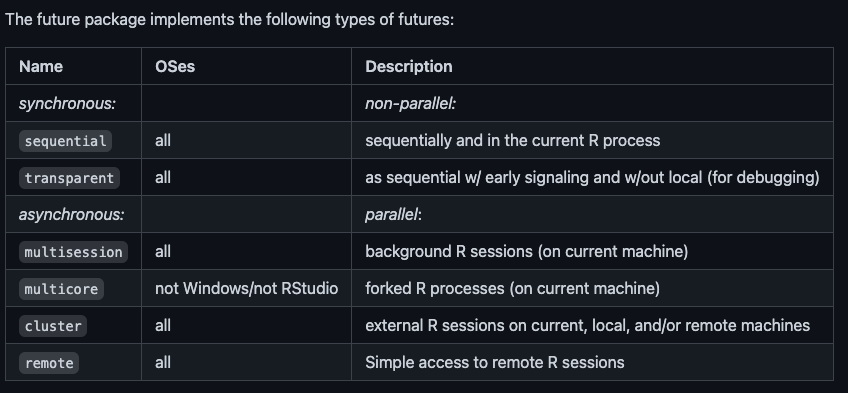
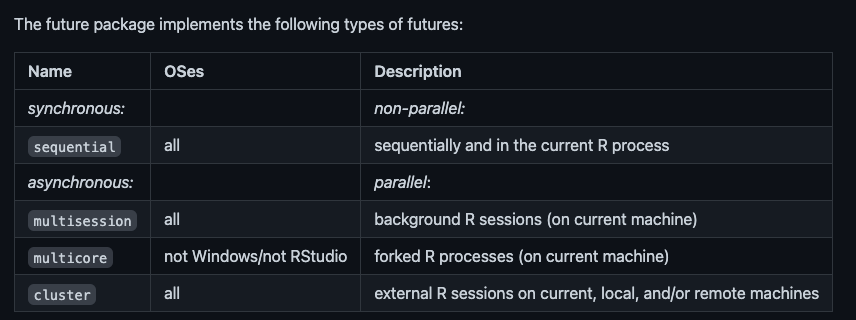
updates to parallelisation materials

diff --git a/topic_parallelisation_Sebastian/presentation/parallelisation_Sebastian.html b/topic_parallelisation_Sebastian/presentation/parallelisation_Sebastian.html
@@ -66,8 +66,9 @@ name: overview
 ???
 Future package has backup packages, for example future.batchtools which provides access to cluster functions, like slurm, torque, SGE and LSF.
 Futures are evaluated in a local environment, meaning that you cant change variables in there. Like in functions.
-Finish with info that he has described this in detail for those that want to know more. Just published article.
-The big thing about futures is that it seems to support most infrastructures and it is written in a way where you are not deciding which infrastructure the user has, which parallel and foreach did.
+
+Recently published article.
+The big thing about futures is that it seems to support most infrastructures and it is written in a way where you are not deciding which infrastructure the user has, which parallel and foreach did. Finish with info that he has described this in detail for those that want to know more. 
 
 ---
 name: par
@@ -109,6 +110,10 @@ Published 2021-06-08 in "The R Journal":
 [A Unifying Framework for Parallel and Distributed Processing in R using Futures](https://journal.r-project.org/archive/2021/RJ-2021-048/RJ-2021-048.pdf)
 
 ???
+R package developers rarely know who the end-users are and what compute resources they have. With future, instead of programming for one architecture, the code should work on most architectures. We will get back to the Unblocked R process during resolving but basically what it means is that even if multiple things are being computed in parallel the R code can continue unblocked until the resolved values are needed.
+
+
+Text from article:
 The state of a future can either be unresolved or resolved. As soon as it is resolved, the value is available instantaneously. If the value is queried while the future is still unresolved, the current process is blocked until the future is resolved.
 
 R package developers rarely know who the end-users are and what compute resources they have. Regardless, developers who wish to support parallel processing still face the problem of deciding which parallel framework to target, a decision which often has to be done early in the development cycle. This means deciding on what type of parallelism to support,
@@ -120,12 +125,6 @@ This decision is critical because it limits the end-user’s options and any cha
 Building block:
 `variable %&lt;-% {expression(s)}`
 
-???
-The state of a future can either be unresolved or resolved. As soon as it is resolved, the value is available instantaneously. If the value is queried while the future is still unresolved, the current process is blocked until the future is resolved.
-
-R package developers rarely know who the end-users are and what compute resources they have. Regardless, developers who wish to support parallel processing still face the problem of deciding which parallel framework to target, a decision which often has to be done early in the development cycle. This means deciding on what type of parallelism to support,
-This decision is critical because it limits the end-user’s options and any change, later on, might be expensive because of, for instance, having to rewrite and retest part of the codebase. A developer who wishes to support multiple parallel backends has to implement support for each of them individually and provide the end-user with a mechanism to choose between them.
-
 ---
 name: pla
 
@@ -136,26 +135,18 @@ name: pla
 ???
 Synchronus:
 existing or occurring at the same time.
-"glaciations were approximately synchronous in both hemispheres"
 
 Asynchronus:
-occurring at the same time
+Not occurring or existing at the same time
 
-or
-
-controlling the timing of operations by the use of pulses sent when the previous operation is completed rather than at regular intervals.
 
 Sequential: One after another. Default. Very useful when developing the code the first time.
-
-Transparent: troubleshooting. Not covered.
 
 multisession: All operating systems. Evaluated in background R sessions. Number of sessions decided by availableCores().
 
 multicore: operating systems supporting forking of processes, all except windows. Forks existing R process rather than creating new sessions. Max forks decided by availableCores().
 
-Cluster: Cluster environtment, such as HPC. Uses package parallel
-
-remote: connection to a separate r session on separate machine, typically on different network.
+Cluster: Cluster environment, such as HPC. Uses package parallel
 
 ---
 name: seq
@@ -183,13 +174,16 @@ b %&lt;-% {
 a + b
 ```
 
+???
+In programming, a future is an abstraction for a value that may be available at some point in the future. The state of a future can either be unresolved or resolved. As soon as it is resolved, the value is available instantaneously. If the value is queried while the future is still unresolved, the current process is blocked until the future is resolved. It is possible to check whether a future is resolved or not without blocking. 
+
 --
 
 
 ```
 ## [1] 3
 ##    user  system elapsed 
-##   0.043   0.006   6.066
+##   0.027   0.008   6.044
 ```
 
 ---
@@ -220,13 +214,13 @@ a + b
 ```
 ## [1] 3
 ##    user  system elapsed 
-##   0.033   0.003   6.055
+##   0.043   0.057   3.062
 ```
 
 
 
 ???
-Note: To compute plan(multicore) the rmarkdown must be rendered from terminal r console, as rstudio does not support multicore.
+Note: To compute plan(multicore) the rmarkdown must be rendered from terminal r console, as rstudio does not support multicore. rmarkdown::render("parallelisation_Sebastian.Rmd")
 
 --
 
@@ -261,25 +255,25 @@ c %&lt;-% {
   Sys.sleep(3)
   c &lt;- 3
 }
-d %&lt;-% {
-  Sys.sleep(3)
-  d &lt;- 4
+
+...
+
 }
-e %&lt;-% {
+k %&lt;-% {
   Sys.sleep(3)
   e &lt;- 5
 }
 
-a + b + c + d + e
+a + b + c + d + e + f + g + h + j + k
 ```
 
 --
 
 
 ```
-## [1] 15
+## [1] 60
 ##    user  system elapsed 
-##   0.103   0.007  15.158
+##   0.298   0.365   6.208
 ```
 
 
@@ -321,7 +315,7 @@ count: false
 
 &lt;p&gt;R version 4.1.2 (2021-11-01)&lt;br&gt;&lt;p&gt;Platform: x86_64-apple-darwin17.0 (64-bit)&lt;/p&gt;&lt;p&gt;OS: macOS Big Sur 10.16&lt;/p&gt;&lt;br&gt;
 
-Built on : &lt;i class='fa fa-calendar' aria-hidden='true'&gt;&lt;/i&gt; 31-May-2022 at &lt;i class='fa fa-clock-o' aria-hidden='true'&gt;&lt;/i&gt; 20:35:35  
+Built on : &lt;i class='fa fa-calendar' aria-hidden='true'&gt;&lt;/i&gt; 15-Jun-2022 at &lt;i class='fa fa-clock-o' aria-hidden='true'&gt;&lt;/i&gt; 10:14:15  
 
 &lt;b&gt;2022&lt;/b&gt; • [SciLifeLab](https://www.scilifelab.se/) • [NBIS](https://nbis.se/) • [RaukR](https://nbisweden.github.io/workshop-RaukR-2206/)
 

diff --git a/topic_parallelisation_Sebastian/lab/parallelisation_lab_Sebastian.html b/topic_parallelisation_Sebastian/lab/parallelisation_lab_Sebastian.html
@@ -285,6 +285,7 @@ div.tocify {
 <h2><span class="header-section-number">2.1</span> Sequential and Multi-</h2>
 <ul>
 <li><p>Use the future package with <code>plan(sequential)</code>,which is the default, and run the supplied <code>sample()</code> inside a future.</p></li>
+<li><p>Due to a recent change in future, there is a warning message when generating random numbers without seed. We can ignore this by changing our options: <code>options(future.rng.onMisuse="ignore")</code>.</p></li>
 <li><p>Add an approach from yesterdays lecture on benchmarking or some other way that you are comfortable with to calculate the time it takes to complete the operation of simply assigning the future. Do not evaluate the future yet by asking for the outcome value.</p></li>
 </ul>
 <blockquote>
@@ -312,7 +313,7 @@ timer(
 <ul>
 <li>Introduce an error in one of your future expressions.</li>
 </ul>
-<p><em>Question 5:</em> Does the error output immediately?</p>
+<p><em>Question 5:</em> Does the error output when the future is defined and unresolved, or when it is resolved?</p>
 <p><em>Question 6:</em> What happens when you try to use that future later in your code?</p>
 <p><em>Question 7:</em> Can you perform other operations between defining your future and evaluating your future?</p>
 <p><a href="https://github.com/HenrikBengtsson/future#failed-futures">Further reading about errors and debugging for futures.</a></p>
@@ -331,7 +332,10 @@ for (name in c(&quot;a&quot;, &quot;b&quot;, &quot;c&quot;)) {
      }
 }
 #Turn the environment back into a list
-v &lt;- as.list(v)</code></pre>
+v &lt;- as.list(v)
+
+#To turn the list of vectors into the same format, one long vector, that we had above when running &quot;a + b + c&quot;
+vec &lt;- Reduce(c,v)</code></pre>
 <ul>
 <li>Use this to divide the <code>sample()</code> operation into however many smaller pieces you want. Do remember to transform your output back into the object we started with before parallelising the execution.</li>
 </ul>
@@ -367,11 +371,11 @@ v &lt;- as.list(v)</code></pre>
 ## [1] stats     graphics  grDevices utils     datasets  methods   base     
 ## 
 ## other attached packages:
-## [1] future_1.26.1     fontawesome_0.2.2 captioner_2.2.3   bookdown_0.26    
+## [1] future_1.26.1     fontawesome_0.2.2 captioner_2.2.3   bookdown_0.27    
 ## [5] knitr_1.39       
 ## 
 ## loaded via a namespace (and not attached):
-##  [1] parallelly_1.31.1 rstudioapi_0.13   magrittr_2.0.3    R6_2.5.1         
+##  [1] parallelly_1.32.0 rstudioapi_0.13   magrittr_2.0.3    R6_2.5.1         
 ##  [5] rlang_1.0.2       fastmap_1.1.0     stringr_1.4.0     globals_0.15.0   
 ##  [9] tools_4.1.2       parallel_4.1.2    xfun_0.31         cli_3.3.0        
 ## [13] jquerylib_0.1.4   htmltools_0.5.2   yaml_2.3.5        digest_0.6.29    
@@ -379,7 +383,7 @@ v &lt;- as.list(v)</code></pre>
 ## [21] stringi_1.7.6     compiler_4.1.2    bslib_0.3.1       jsonlite_1.8.0   
 ## [25] listenv_0.8.0</code></pre>
 <p style="text-align: left; font-size: small;">
-Built on: <i class="fa fa-calendar" aria-hidden="true"></i> 31-May-2022 at <i class="fa fa-clock-o" aria-hidden="true"></i> 20:34:55.
+Built on: <i class="fa fa-calendar" aria-hidden="true"></i> 15-Jun-2022 at <i class="fa fa-clock-o" aria-hidden="true"></i> 11:11:24.
 </p>
 <hr/>
 <div style="padding-bottom: 1.5em">
